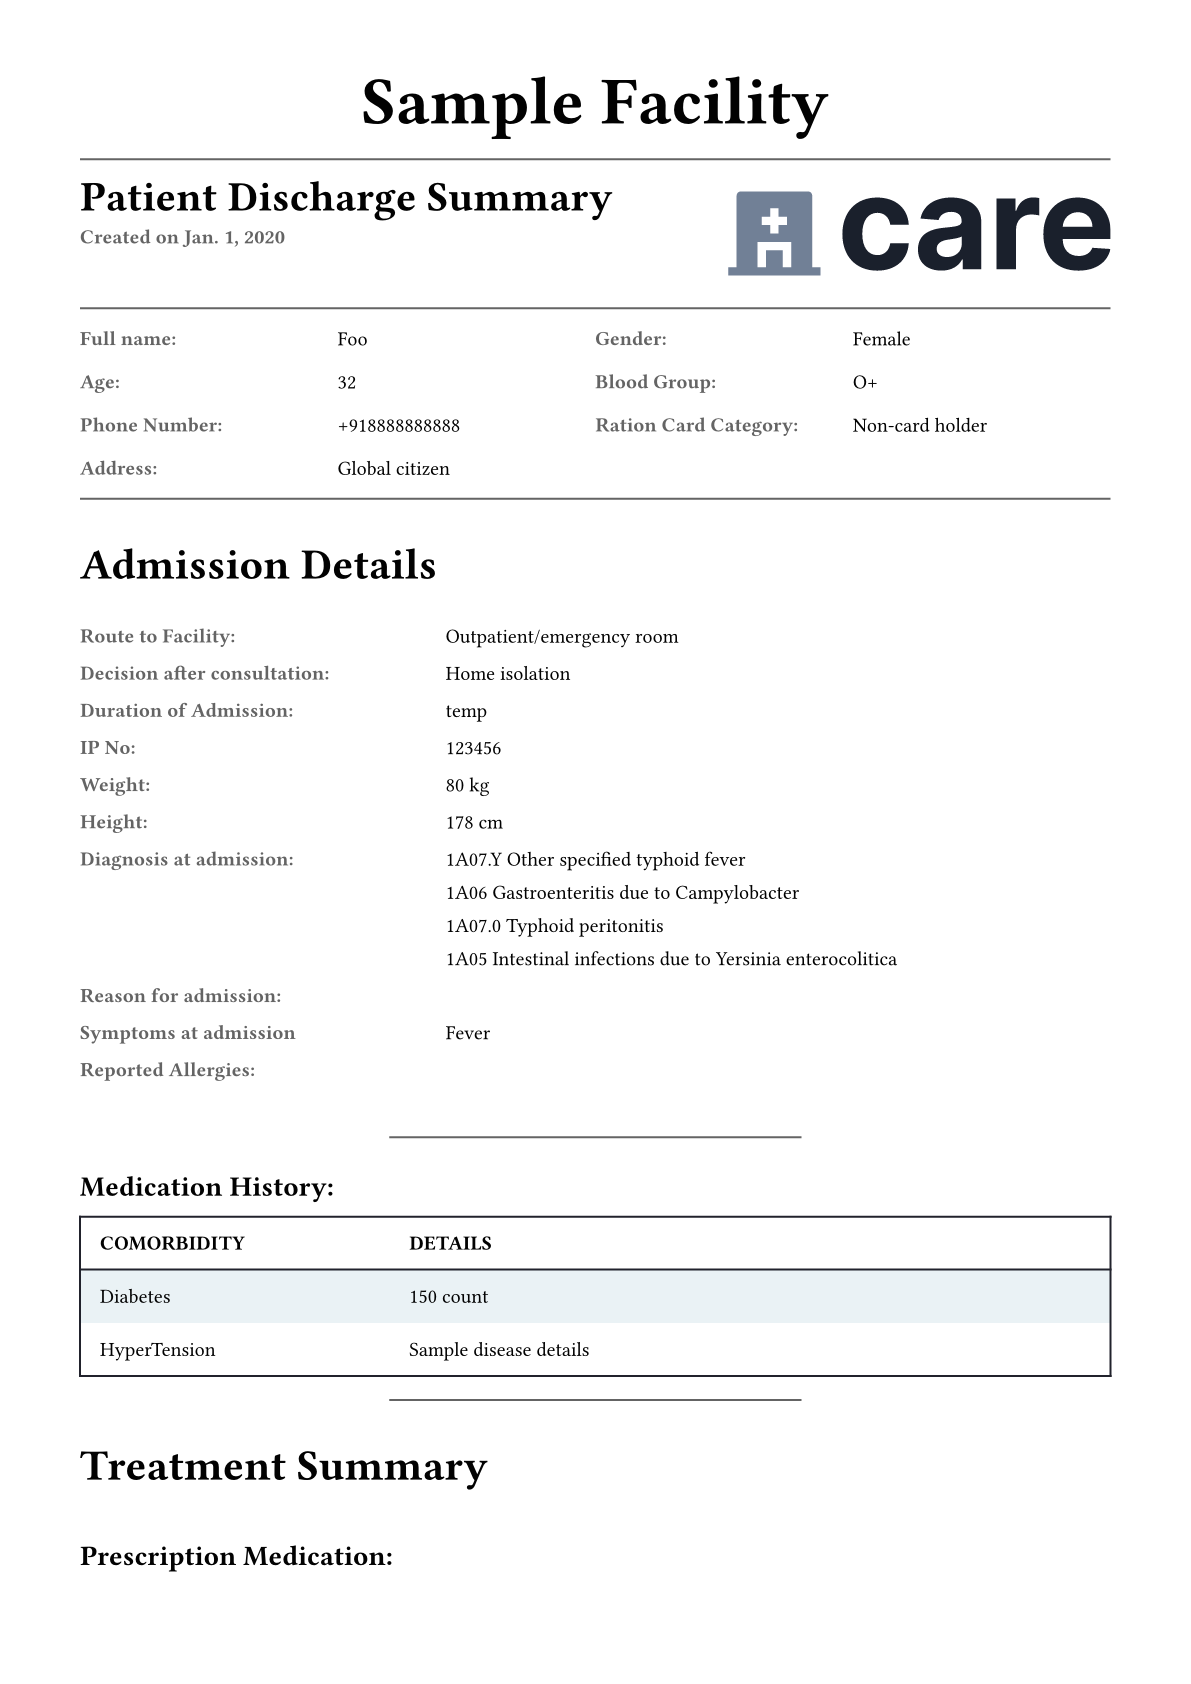
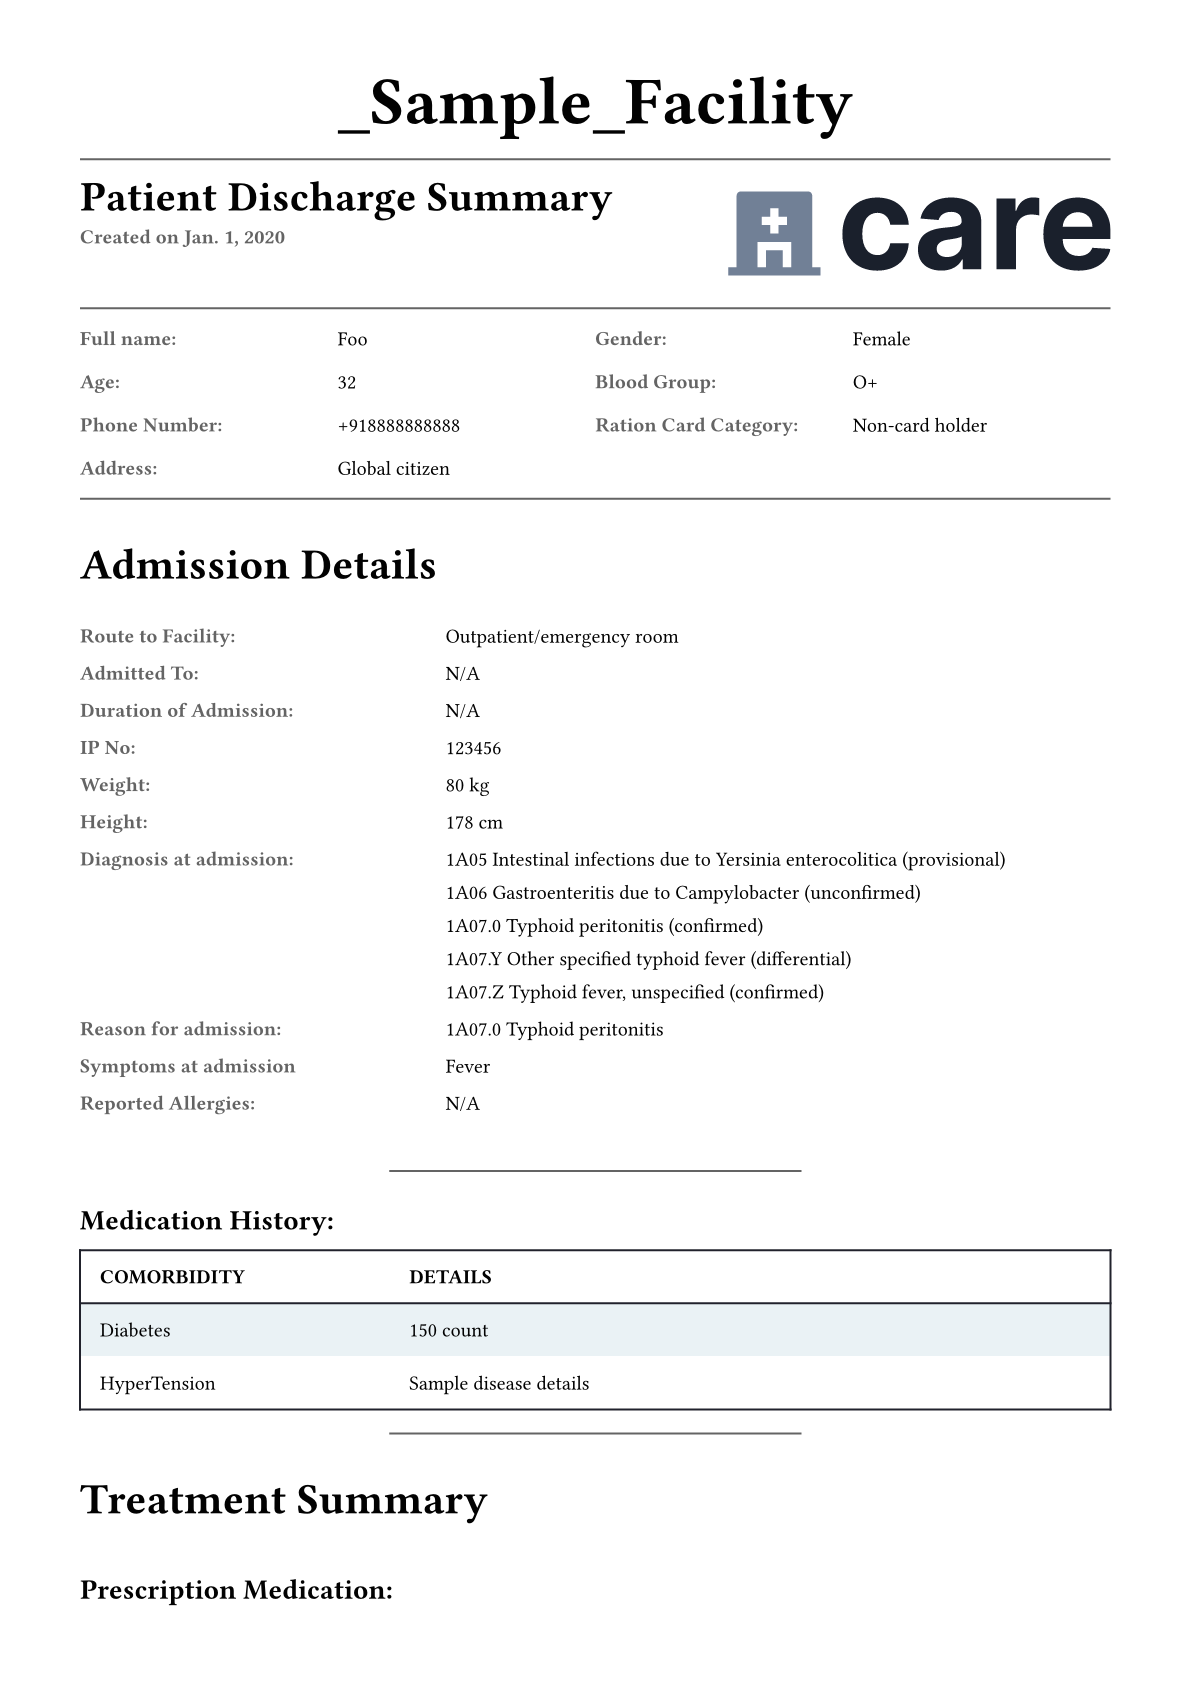
completed the todos mentioned

diff --git a/care/facility/utils/reports/discharge_summary.py b/care/facility/utils/reports/discharge_summary.py
@@ -13,6 +13,7 @@ from django.template.loader import render_to_string
 from django.utils import timezone
 
 from care.facility.models import (
+    BedTypeChoices,
     Disease,
     EncounterSymptom,
     InvestigationValue,
@@ -72,6 +73,7 @@ def get_diagnoses_data(consultation: PatientConsultation):
 
     for diagnosis, record in zip(diagnoses, entries):
         _, verification_status, is_principal = record
+        diagnosis["status"] = record[1]
         if is_principal:
             principal.append(diagnosis)
         if verification_status == ConditionVerificationStatus.UNCONFIRMED:
@@ -90,6 +92,17 @@ def get_diagnoses_data(consultation: PatientConsultation):
         "differential": differential,
         "confirmed": confirmed,
     }
+
+
+def format_duration(duration):
+    if not duration:
+        return ""
+
+    days = duration.days
+    hours, remainder = divmod(duration.seconds, 3600)
+    minutes, _ = divmod(remainder, 60)
+
+    return f"{days} days, {hours}:{minutes:02d} hours"
 
 
 def get_discharge_summary_data(consultation: PatientConsultation):
@@ -142,11 +155,22 @@ def get_discharge_summary_data(consultation: PatientConsultation):
         upload_completed=True,
         is_archived=False,
     )
+    admitted_to = None
+    if consultation.current_bed:
+        admitted_to = f"{consultation.current_bed.bed} ({BedTypeChoices[consultation.current_bed.bed.bed_type][1]})"
+    admission_duration = (
+        format_duration(consultation.discharge_date - consultation.encounter_date)
+        if consultation.discharge_date
+        else None
+    )
+
     return {
         "patient": consultation.patient,
         "samples": samples,
         "hcx": hcx,
         "symptoms": symptoms,
+        "admitted_to": admitted_to,
+        "admission_duration": admission_duration,
         "diagnoses": diagnoses["confirmed"]
         + diagnoses["provisional"]
         + diagnoses["unconfirmed"]

diff --git a/care/facility/tests/test_pdf_generation.py b/care/facility/tests/test_pdf_generation.py
@@ -115,7 +115,7 @@ class TestGenerateDischargeSummaryPDF(TestCase, TestUtils):
         cls.local_body = cls.create_local_body(cls.district, name="sample_local_body")
         cls.super_user = cls.create_super_user("su", cls.district)
         cls.facility = cls.create_facility(
-            cls.super_user, cls.district, cls.local_body, name="Sample Facility"
+            cls.super_user, cls.district, cls.local_body, name="_Sample_Facility"
         )
         cls.user = cls.create_user("staff1", cls.district, home_facility=cls.facility)
         cls.treating_physician = cls.create_user(
@@ -197,6 +197,12 @@ class TestGenerateDischargeSummaryPDF(TestCase, TestUtils):
             cls.diagnoses[3],
             verification_status=ConditionVerificationStatus.UNCONFIRMED,
         )
+        cls.create_consultation_diagnosis(
+            cls.consultation,
+            cls.diagnoses[4],
+            verification_status=ConditionVerificationStatus.CONFIRMED,
+            is_principal=True,
+        )
 
     def setUp(self) -> None:
         self.client = APIClient()
@@ -213,4 +219,7 @@ class TestGenerateDischargeSummaryPDF(TestCase, TestUtils):
     def test_pdf_generation(self):
         data = discharge_summary.get_discharge_summary_data(self.consultation)
         data["date"] = date(2020, 1, 1)
+
+        # This sorting is test's specific and done in order to keep the values in order
+        data["diagnoses"] = sorted(data["diagnoses"], key=lambda x: x["label"])
         self.assertTrue(test_compile_typ(data))

diff --git a/care/facility/templatetags/data_formatting_tags.py b/care/facility/templatetags/data_formatting_tags.py
@@ -1,0 +1,11 @@
+from django import template
+
+register = template.Library()
+
+
+@register.filter(name="format_empty_data")
+def format_empty_data(data):
+    if data is None or data == "" or data == 0.0:
+        return "N/A"
+
+    return data
